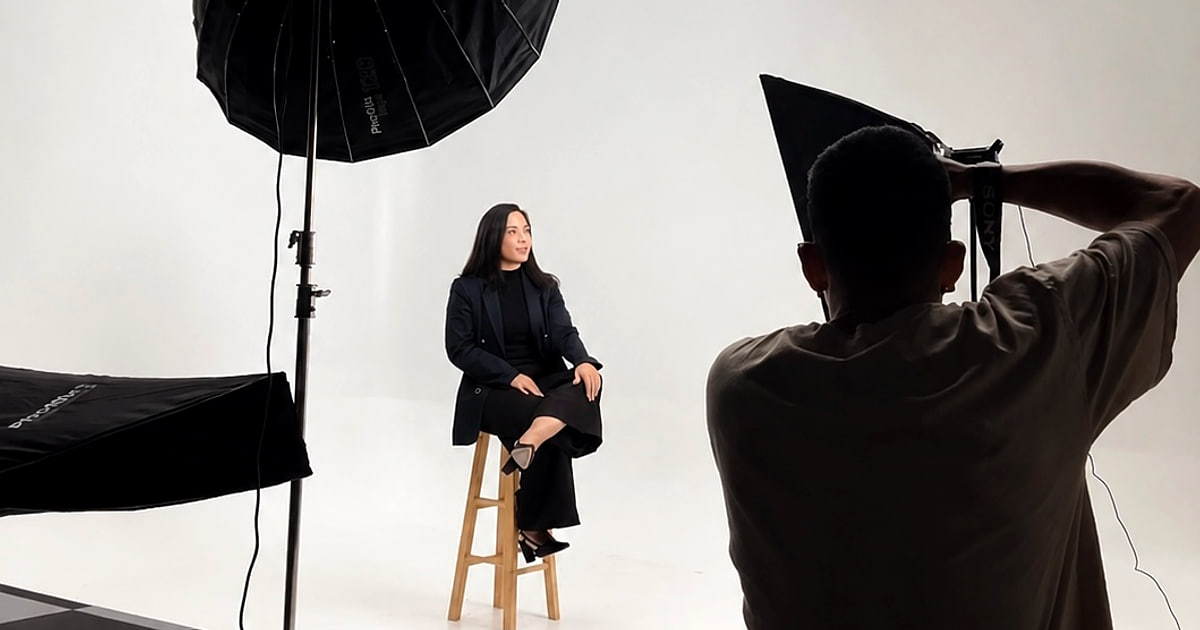
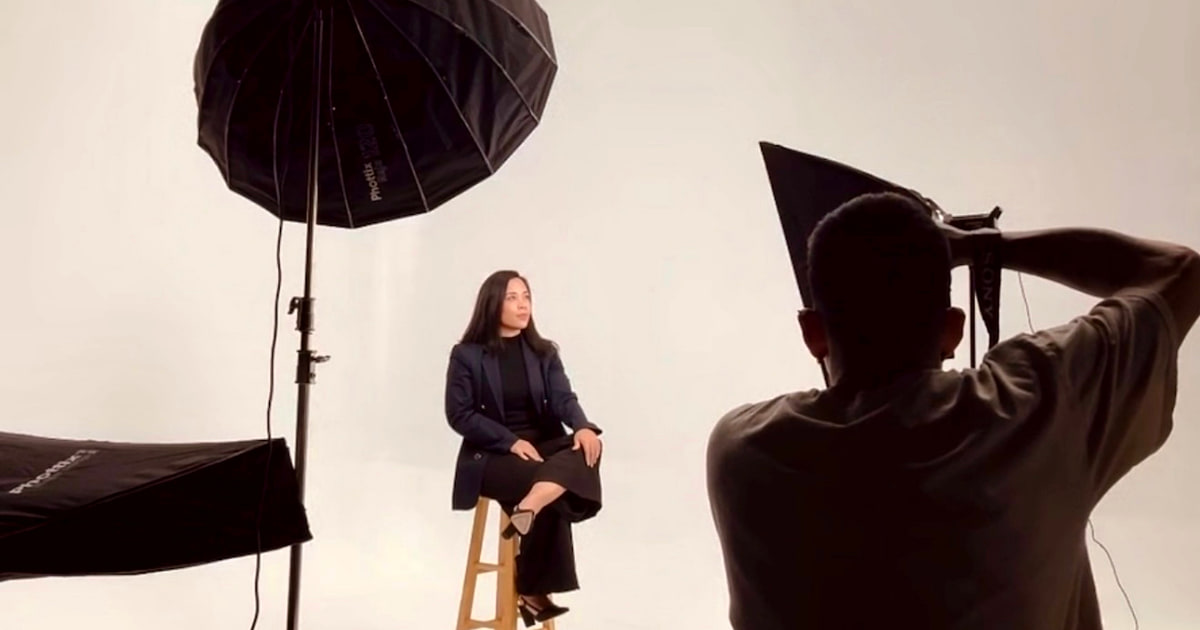
Fotografía nueva, duración real del Content Day y cifras del caso
Hero del home. Entra la versión en alta del ciclorama: 1800x947 frente a
1060x636. El archivo anterior se agrandaba un 17% en escritorio; este ya
no. La tarjeta de compartir sale del mismo encuadre y tampoco se agranda.

Films. El hero pasa a un rodaje real con equipo, teleprompter y monitor,
que además es la primera foto del sitio donde se ve un equipo y no una
sola persona. Sale la casa de Milos del teaser y entra el set de
ciclorama. La miniatura de ciclorama se sustituye por la del rodaje con
estabilizador, que liberó el hero, para que ninguna imagen salga dos
veces en la misma página.

Content Day. «Hasta dos horas» era falso para los dos alcances: son de
dos a tres y de cuatro a seis. Pasa a «entre dos y seis horas según el
alcance», que es cierto sin publicar una tabla de tiers.

Sobre Lumma. El primer párrafo dejaba el peso en quién fundó el estudio.
Ahora abre por el propósito de Lumma. El segundo párrafo y la firma se
quedan igual.

Caso Milos. Se publican las dos visualizaciones que sostienen el
cálculo: 974 a 13.218 en total, y 921 a 9.847 descontada la pauta. Antes
la nota afirmaba un «por más de diez» cuyos insumos no aparecían en
ninguna parte, así que no había forma de comprobarlo.

Claude-Session: https://claude.ai/code/session_01HwsF43NDQGpxWuc15Bch2F

diff --git a/index.html b/index.html
@@ -237,7 +237,7 @@ em.it{font-family:var(--serif);font-style:italic;font-weight:400;letter-spacing:
    2,3:1 volvía a cortar la cabeza del fotógrafo y el alto del softbox, que es
    justo lo que este encuadre resuelve. En móvil sí se recorta un poco, porque
    a 390px la escena entera deja a la vocera diminuta. */
-.hero-media img{width:100%;height:auto;aspect-ratio:1060/636;object-fit:cover;object-position:center;filter:saturate(1.05)}
+.hero-media img{width:100%;height:auto;aspect-ratio:1800/947;object-fit:cover;object-position:center;filter:saturate(1.05)}
 @media(max-width:700px){.hero-media img{aspect-ratio:5/4;object-position:58% center}}
 .hero-media::after{content:"";position:absolute;inset:0;background:linear-gradient(180deg,transparent 55%,rgba(8,8,8,.55))}
 /* rotating badge */
@@ -617,7 +617,7 @@ html.js .rv.on{opacity:1;transform:none}
     <p class="hero-note rv">Una hora · sin costo · sin compromiso</p>
 
     <div class="hero-media rv">
-      <picture><source srcset="assets/images/hero.webp" type="image/webp"><img alt="Sesión de retrato de Lumma en ciclorama: el fotógrafo dirigiendo, la luz montada y la vocera sentada en el set" src="assets/images/hero.jpg" width="1060" height="636" fetchpriority="high" decoding="async"></picture>
+      <picture><source srcset="assets/images/hero.webp" type="image/webp"><img alt="Sesión de retrato de Lumma en ciclorama: el fotógrafo dirigiendo, la luz montada y la vocera sentada en el set" src="assets/images/hero.jpg" width="1800" height="947" fetchpriority="high" decoding="async"></picture>
       <a class="spin-badge" href="analisis.html" aria-label="Solicitar diagnóstico">
         <svg viewBox="0 0 100 100">
           <defs><path id="circ" d="M 50,50 m -37,0 a 37,37 0 1,1 74,0 a 37,37 0 1,1 -74,0"/></defs>
@@ -776,7 +776,7 @@ html.js .rv.on{opacity:1;transform:none}
     <div class="cday-head">
       <p class="tag pink rv">Cómo se produce</p>
       <h2 class="d2 rv">Un día al mes. Y no tienes que <em class="it it-pink">actuar</em>.</h2>
-      <p class="lead rv">El Content Day es la jornada donde se graba el contenido del mes. Hasta dos horas, con guion previo y dirección en el set. Se diseña alrededor de tu nivel de comodidad, no del nuestro.</p>
+      <p class="lead rv">El Content Day es la jornada donde se graba el contenido del mes. Entre dos y seis horas según el alcance, con guion previo y dirección en el set. Se diseña alrededor de tu nivel de comodidad, no del nuestro.</p>
       <p class="cday-close rv">Se empieza donde estés cómodo y se sube sólo si quieres. <b>Nadie llega a rendir frente a una cámara:</b> llegas a aportar lo que sabes, y la dirección la ponemos nosotros.</p>
     </div>
     <div class="ladder">
@@ -819,7 +819,7 @@ html.js .rv.on{opacity:1;transform:none}
       <figure class="caso-shot rv"><picture><source srcset="assets/images/milos/milos-detalle.webp" type="image/webp"><img alt="Detalle de una reja ornamental con puntas de lanza y motivos circulares" src="assets/images/milos/milos-detalle.jpg" width="800" height="1000" loading="lazy" decoding="async"></picture><figcaption>El acabado</figcaption></figure>
       <figure class="caso-shot rv"><picture><source srcset="assets/images/milos/milos-equipo.webp" type="image/webp"><img alt="Técnico de Milos Pro con la camisa de la marca frente a un portón de listones horizontales recién instalado" src="assets/images/milos/milos-equipo.jpg" width="800" height="1000" loading="lazy" decoding="async"></picture><figcaption>La instalación</figcaption></figure>
     </div>
-    <p class="caso-note rv">Los datos comparan los treinta días previos con los treinta siguientes, y se publican con autorización de Milos Pro. <b>Una parte del alcance es pauta:</b> pasó del 5% al 25% de las visualizaciones. Descontándola, el contenido orgánico se multiplicó por más de diez.</p>
+    <p class="caso-note rv">Los datos comparan los treinta días previos con los treinta siguientes, y se publican con autorización de Milos Pro. Las visualizaciones pasaron de 974 a 13.218. <b>Una parte es pauta:</b> del 5% al 25%. Descontándola, el contenido orgánico pasó de 921 a 9.847 reproducciones.</p>
   </div>
 </section>
 
@@ -832,7 +832,7 @@ html.js .rv.on{opacity:1;transform:none}
       <span class="about-sticker rv">Hola, somos Lumma ✦</span>
     </div>
     <div>
-      <p class="rv">Lumma es un estudio creativo independiente en Miami, fundado por Sonia Cot, quien lidera la visión del estudio, el desarrollo del negocio y las relaciones que lo hacen crecer.</p>
+      <p class="rv">Lumma es un estudio creativo independiente en Miami. Existe para cerrar la distancia entre el valor que un negocio ya tiene y el que las personas correctas alcanzan a percibir, para que se reconozca antes de la primera conversación.</p>
       <p class="rv">Cada proyecto reúne al talento estratégico, creativo y técnico que la idea necesita. Esta estructura mantiene las decisiones cerca, evita capas innecesarias y permite escalar con especialistas seleccionados.</p>
       <div class="founder rv"><picture><source srcset="assets/images/estudio/sonia.webp" type="image/webp"><img class="founder-face" alt="Sonia Cot" src="assets/images/estudio/sonia.jpg" width="560" height="560" loading="lazy" decoding="async"></picture><span class="founder-txt"><span class="founder-id">Sonia Cot</span><span class="founder-role">Founder &amp; Business Lead</span></span></div>
     </div>
@@ -987,7 +987,7 @@ const EN={
 '.shift-p':`In the early weeks we carry the direction: what to say, in what order, in what format. Over the weeks, series start working, formats repeat and a bank of ideas builds up, and the system needs fewer new decisions. What gets built stays.`,
 '.cday-head .tag':'How it gets made',
 '.cday-head h2':`One day a month. And you don't have to <em class="it it-pink">perform</em>.`,
-'.cday-head .lead':`The Content Day is when the month's content gets shot. Up to two hours, with scripts prepared and direction on set. It is built around your level of comfort, not ours.`,
+'.cday-head .lead':`The Content Day is when the month's content gets shot. Two to six hours depending on scope, with scripts prepared and direction on set. It is built around your level of comfort, not ours.`,
 '.cday-close':`You start where you are comfortable and move up only if you want to. <b>Nobody arrives to perform for a camera:</b> you arrive to contribute what you know, and we bring the direction.`,
 '.cd-shot figcaption':[`At the client's workshop`,'Guided interview','On site'],
 '.rung-t':[`<b>No face</b>Hands, process, product, screen and voiceover.`,`<b>Guided</b>Interview off camera. You answer, we edit.`,`<b>Supported</b>On camera, with prompts and notes, and as many takes as it needs.`,`<b>Direct</b>Scripted in beats, straight to camera.`,`<b>Fluid</b>Conversation and reaction, without losing the intent.`],
@@ -1005,10 +1005,10 @@ const EN={
 '.cnum-b':['7,932','92.5%','104','43'],
 '.cnum-arr':['→','→','→','at $4.35'],
 '.caso-text p':[`The craft was never the problem. The pieces are well resolved and the finish holds up close. What did not exist was a system to show it: <b>loose posts, no series and no direction</b>, and a month that reached 434 people.`,`We built the brand, the site and the content system. One Content Day a month, defined series, and publishing with the signals read. <b>Paid came later</b>, once there was a message worth amplifying.`],
-'.caso-note':`The figures compare the thirty days before with the thirty after, and are published with Milos Pro's permission. <b>Part of the reach is paid:</b> it went from 5% to 25% of views. Take it out, and organic content still multiplied more than tenfold.`,
+'.caso-note':`The figures compare the thirty days before with the thirty after, and are published with Milos Pro's permission. Views went from 974 to 13,218. <b>Part of that is paid:</b> 5% to 25%. Take it out, and organic content went from 921 to 9,847 plays.`,
 '.about .tag':'About Lumma',
 '.about h2':`An independent studio, with the team each project <em class="it">calls for</em>.`,
-'section.about p.rv:not(.tag):not(.founder)':[`Lumma is an independent creative studio in Miami, founded by Sonia Cot, who leads the studio's vision, its business development and the relationships that let it grow.`,'Each project brings together the strategic, creative and technical talent the idea calls for. That structure keeps decisions close, avoids unnecessary layers and lets the work scale through selected specialists.'],
+'section.about p.rv:not(.tag):not(.founder)':[`Lumma is an independent creative studio in Miami. It exists to close the distance between the value a business already has and the value the right people actually perceive, so it is recognized before the first conversation.`,'Each project brings together the strategic, creative and technical talent the idea calls for. That structure keeps decisions close, avoids unnecessary layers and lets the work scale through selected specialists.'],
 '.about-sticker':`Hi, we're Lumma ✦`,
 '.magnet .free':'1 hour · no cost',
 '.magnet h2':`Not sure where to start?<br><em class="it it-green">Start with the diagnostic.</em>`,

diff --git a/films.html b/films.html
@@ -331,7 +331,7 @@ html.js .rv.on{opacity:1;transform:none}
     <!-- Era un <video> apuntando a assets/video/films-hero.mp4, que no existe: sólo
          se veía el poster y el navegador tiraba un 404 en cada carga. Vuelve a ser
          un <video> el día que exista el bucle; mientras tanto, una imagen real. -->
-    <picture><source srcset="assets/images/estudio/cd-rodaje.webp" type="image/webp"><img alt="" src="assets/images/estudio/cd-rodaje.jpg" width="800" height="1000" fetchpriority="high" decoding="async"></picture>
+    <picture><source srcset="assets/images/estudio/cd-set.webp" type="image/webp"><img alt="" src="assets/images/estudio/cd-set.jpg" width="1800" height="947" fetchpriority="high" decoding="async"></picture>
   </div>
   <div class="container hero-inner">
     <p class="tag rv">Lumma Films — Miami</p>
@@ -381,7 +381,7 @@ html.js .rv.on{opacity:1;transform:none}
     <h2 class="d2 rv">Así se <em class="it it-green">trabaja</em>.</h2>
   </div>
   <div class="stills-grid">
-    <div class="still rv"><picture><source srcset="assets/images/estudio/cd-ciclorama.webp" type="image/webp"><img alt="Sesión en ciclorama: el fotógrafo dirigiendo y la luz montada sobre el set" src="assets/images/estudio/cd-ciclorama.jpg" width="800" height="1067" loading="lazy" decoding="async"></picture></div>
+    <div class="still rv"><picture><source srcset="assets/images/estudio/cd-rodaje.webp" type="image/webp"><img alt="Grabación con estabilizador en una casa de Miami, junto a la celosía metálica" src="assets/images/estudio/cd-rodaje.jpg" width="800" height="1000" loading="lazy" decoding="async"></picture></div>
     <div class="still rv"><picture><source srcset="assets/images/estudio/cd-taller.webp" type="image/webp"><img alt="Grabación en el taller de un cliente mientras un soldador trabaja al fondo" src="assets/images/estudio/cd-taller.jpg" width="800" height="1000" loading="lazy" decoding="async"></picture></div>
     <div class="still rv"><picture><source srcset="assets/images/estudio/cd-entrevista.webp" type="image/webp"><img alt="Entrevista a una clienta en un jardín, con micrófono de solapa" src="assets/images/estudio/cd-entrevista.jpg" width="800" height="1000" loading="lazy" decoding="async"></picture></div>
   </div>
@@ -400,7 +400,7 @@ html.js .rv.on{opacity:1;transform:none}
          (45–75 s, licencia comercial verificada). Hasta entonces, una imagen:
          un reproductor con controles sobre un archivo inexistente sólo enseña
          un botón de play que no hace nada. -->
-    <picture><source srcset="assets/images/milos/milos-noche.webp" type="image/webp"><img alt="Casa terminada al anochecer, con la reja de Milos Pro iluminada desde el jardín" src="assets/images/milos/milos-noche.jpg" width="1440" height="720" loading="lazy" decoding="async"></picture>
+    <picture><source srcset="assets/images/estudio/cd-plato.webp" type="image/webp"><img alt="Set de ciclorama montado, con el softbox principal y el fotógrafo dirigiendo" src="assets/images/estudio/cd-plato.jpg" width="1600" height="900" loading="lazy" decoding="async"></picture>
   </div>
   <div class="teaser-cta rv">
     <button class="btn btn-green" data-open-contact>Cuéntanos tu proyecto <span class="arr">→</span></button>

diff --git a/analisis.html b/analisis.html
@@ -543,7 +543,7 @@ html.js .rv.on{opacity:1;transform:none}
     <div class="sobre-text">
       <span class="chip chip-pink rv">Sobre Lumma</span>
       <h2 class="d2 rv" style="margin-top:18px">Un estudio independiente, con el equipo que cada proyecto <em class="it">necesita</em>.</h2>
-      <p class="rv">Lumma es un estudio creativo independiente en Miami, fundado por Sonia Cot, quien lidera la visión del estudio, el desarrollo del negocio y las relaciones que lo hacen crecer. Cada proyecto reúne al talento estratégico, creativo y técnico que la idea necesita.</p>
+      <p class="rv">Lumma es un estudio creativo independiente en Miami. Existe para cerrar la distancia entre el valor que un negocio ya tiene y el que las personas correctas alcanzan a percibir, para que se reconozca antes de la primera conversación. Cada proyecto reúne al talento estratégico, creativo y técnico que la idea necesita.</p>
       <div class="sobre-stats rv">
         <div class="sstat"><div class="num">90</div><div class="lbl">días para construir el sistema</div></div>
         <div class="sstat"><div class="num">3</div><div class="lbl">fases: luz, estructura y alcance</div></div>
@@ -784,7 +784,7 @@ const EN={
 '.not-item':[`<b>If you want guaranteed virality.</b> We do not sell it. The work is being recognized by the right people, not being seen by everyone.`,`<b>If you cannot take part or approve.</b> The system needs your judgment and, nearly always, your face. Without that there is no project, however good the team is.`,`<b>If you cannot take on more clients right now.</b> Visibility on top of a bottleneck only makes the bottleneck more expensive.`,`<b>If you expect content to make up for a weak service.</b> Content amplifies what already exists; it does not fix it.`,`<b>If you want to try it for a month.</b> Halo runs 90 days because before that there are no signals to read.`],
 '#sobre .chip':'About Lumma',
 '#sobre h2':`An independent studio, with the team each project <em class="it">calls for</em>.`,
-'#sobre .sobre-text > p.rv':`Lumma is an independent creative studio in Miami, founded by Sonia Cot, who leads the studio's vision, its business development and the relationships that let it grow. Each project brings together the strategic, creative and technical talent the idea calls for.`,
+'#sobre .sobre-text > p.rv':`Lumma is an independent creative studio in Miami. It exists to close the distance between the value a business already has and the value the right people actually perceive, so it is recognized before the first conversation. Each project brings together the strategic, creative and technical talent the idea calls for.`,
 '.sstat .lbl':['days to build the system','phases: light, structure and reach','Content Day per month'],
 '.footer-nav a':['Studio','Lumma Films'],
 '.faq-section .chip':'FAQ',
